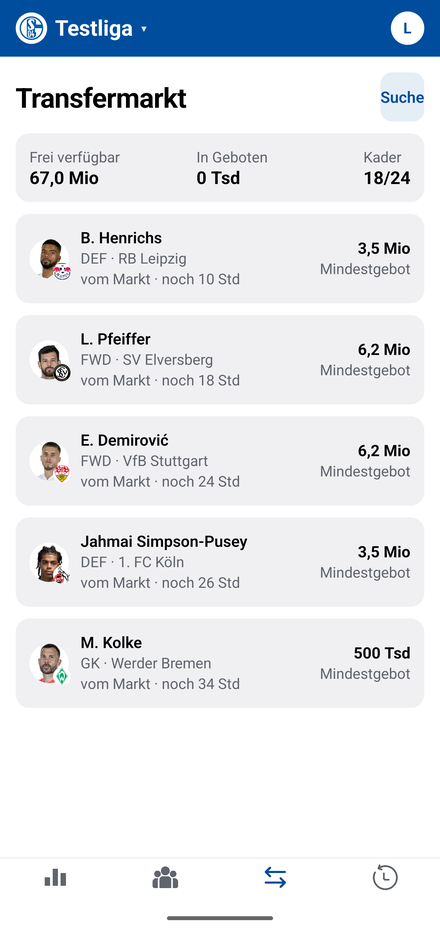
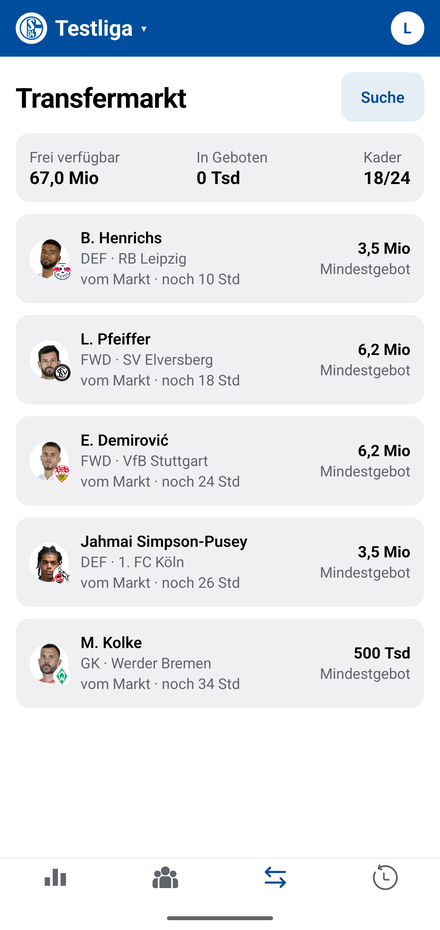
Suche tippt mit, Zurueck ist ein Knopf
Die Suche fragt jetzt waehrend des Tippens, mit 300 ms Pause dazwischen -
sechs Anfragen fuer einen Namen braucht niemand, und einen Knopf zu druecken,
nachdem man den Namen schon getippt hat, auch nicht. Der Suchen-Knopf faellt
damit weg; der Knopf zur Suche ueber dem Markt ist dafuer groesser.

"‹ Zurück" war eine graue Textzeile und sah nicht aus wie etwas, das man
druecken kann. Jetzt ein Knopf mit Rand in Vereinsfarbe, auf allen
Bildschirmen derselbe. Knoepfe haben ausserdem waagerechte Luft bekommen, sonst
sind sie neben einer Ueberschrift nur so breit wie ihr Wort.

Changed region(s): [[0.7682, 0.0624, 0.975, 0.1559]]

diff --git a/app/src/app/suche.tsx b/app/src/app/suche.tsx
@@ -5,13 +5,13 @@ import { api, euroShort } from "@/lib/api";
 import { useSession } from "@/lib/session";
 import {
   Body,
-  Button,
   Card,
   ErrorText,
   Field,
   Screen,
   SpielerFoto,
   Title,
+  Zurueck,
   useAkzent,
   useColors,
   useSchrift,
@@ -46,33 +46,30 @@ export default function SucheScreen() {
     [activeLeagueId, token],
   );
 
-  const suchen = useCallback(
-    async (begriff: string) => {
-      setLaeuft(true);
-      setError("");
-      try {
-        setTreffer((await hole(begriff)).treffer);
-      } catch (e) {
-        setError(e instanceof Error ? e.message : "Suche fehlgeschlagen");
-      } finally {
-        setLaeuft(false);
-      }
-    },
-    [hole],
-  );
-
-  // Beim Öffnen die Scouting-Liste, danach erst auf Tastendruck.
+  /**
+   * Gesucht wird beim Tippen, aber nicht bei jedem Buchstaben: eine kurze
+   * Pause spart dem Server sechs Anfragen fuer einen Namen. Ohne Eingabe holt
+   * derselbe Weg die Scouting-Liste.
+   */
   useEffect(() => {
     let aktuell = true;
-    hole("")
-      .then((r) => {
-        if (aktuell) setTreffer(r.treffer);
-      })
-      .catch(() => {});
+    const warten = setTimeout(() => {
+      setLaeuft(true);
+      hole(q)
+        .then((r) => aktuell && setTreffer(r.treffer))
+        .catch(
+          (e: unknown) =>
+            aktuell &&
+            setError(e instanceof Error ? e.message : "Suche fehlgeschlagen"),
+        )
+        .finally(() => aktuell && setLaeuft(false));
+    }, 300);
+
     return () => {
       aktuell = false;
+      clearTimeout(warten);
     };
-  }, [hole]);
+  }, [q, hole]);
 
   async function merken(t: Treffer) {
     setTreffer((vorher) =>
@@ -86,37 +83,32 @@ export default function SucheScreen() {
       });
     } catch (e) {
       setError(e instanceof Error ? e.message : "Hat nicht geklappt");
-      void suchen(q);
     }
   }
 
   return (
     <Screen>
-      <Pressable onPress={() => router.back()}>
-        <Body dim>‹ Zurück</Body>
-      </Pressable>
+      <Zurueck onPress={() => router.back()} />
 
       <Title>Suche</Title>
 
-      <View style={styles.zeile}>
-        <View style={{ flex: 1 }}>
-          <Field
-            placeholder="Spielername"
-            value={q}
-            onChangeText={setQ}
-            autoCorrect={false}
-            returnKeyType="search"
-            onSubmitEditing={() => suchen(q)}
-          />
-        </View>
-        <Button label="Suchen" onPress={() => suchen(q)} busy={laeuft} />
-      </View>
+      <Field
+        placeholder="Spielername"
+        value={q}
+        onChangeText={setQ}
+        autoCorrect={false}
+        autoFocus
+        returnKeyType="search"
+      />
 
       <ErrorText>{error}</ErrorText>
 
       <Body dim>
-        {q.trim() ? `Treffer für „${q.trim()}“` : "Beobachtete Spieler"}
-        {treffer.length ? ` · ${treffer.length}` : ""}
+        {laeuft
+          ? "sucht …"
+          : `${q.trim() ? `Treffer für „${q.trim()}“` : "Beobachtete Spieler"}${
+              treffer.length ? ` · ${treffer.length}` : ""
+            }`}
       </Body>
 
       {treffer.length === 0 && !laeuft && (

diff --git a/app/src/components/ui.tsx b/app/src/components/ui.tsx
@@ -192,6 +192,29 @@ export function SpielerFoto({
   );
 }
 
+/**
+ * Zurueck als Knopf statt als Textzeile: ein "‹ Zurück" im Fliesstext sieht
+ * nicht aus wie etwas, das man druecken kann, und der Rand in Vereinsfarbe
+ * sagt nebenbei, in wessen App man ist.
+ */
+export function Zurueck({ onPress }: { onPress: () => void }) {
+  const akzent = useAkzent();
+  const schrift = useSchrift();
+  return (
+    <Pressable
+      onPress={onPress}
+      accessibilityRole="button"
+      style={({ pressed }) => [
+        styles.zurueck,
+        { borderColor: akzent.farbe },
+        pressed && { opacity: 0.6 },
+      ]}
+    >
+      <Text style={[styles.zurueckLabel, { color: schrift }]}>‹ Zurück</Text>
+    </Pressable>
+  );
+}
+
 export function Field(props: TextInputProps) {
   const c = useColors();
   return (
@@ -232,11 +255,22 @@ const styles = StyleSheet.create({
   button: {
     borderRadius: 12,
     paddingVertical: 14,
+    // Waagerechte Luft, damit ein Knopf neben einer Ueberschrift nicht nur so
+    // breit ist wie sein Wort.
+    paddingHorizontal: 20,
     alignItems: "center",
     justifyContent: "center",
     minHeight: 50,
   },
   buttonLabel: { fontSize: 16, fontWeight: "600" },
+  zurueck: {
+    alignSelf: "flex-start",
+    borderWidth: 1.5,
+    borderRadius: 10,
+    paddingHorizontal: 14,
+    paddingVertical: 7,
+  },
+  zurueckLabel: { fontSize: 15, fontWeight: "600" },
   field: {
     borderRadius: 12,
     paddingHorizontal: 14,

diff --git a/app/src/app/settings.tsx b/app/src/app/settings.tsx
@@ -3,7 +3,16 @@ import { useRouter } from "expo-router";
 import { useSession } from "@/lib/session";
 import { useThemeMode, type ThemeMode } from "@/lib/theme";
 import { Profilkreis } from "@/components/league-switcher";
-import { Body, Button, Card, Screen, Title, useAkzent, useColors } from "@/components/ui";
+import {
+  Body,
+  Button,
+  Card,
+  Screen,
+  Title,
+  Zurueck,
+  useAkzent,
+  useColors,
+} from "@/components/ui";
 
 const ANZEIGE: { mode: ThemeMode; label: string; hinweis: string }[] = [
   { mode: "system", label: "System", hinweis: "folgt dem Telefon" },
@@ -21,9 +30,7 @@ export default function SettingsScreen() {
 
   return (
     <Screen>
-      <Pressable onPress={() => router.back()}>
-        <Body dim>‹ Zurück</Body>
-      </Pressable>
+      <Zurueck onPress={() => router.back()} />
 
       <View style={styles.kopf}>
         <Profilkreis name={me?.user.name} bild={me?.user.image ?? null} groesse={64} />

diff --git a/app/src/app/manager/[id].tsx b/app/src/app/manager/[id].tsx
@@ -11,6 +11,7 @@ import {
   Screen,
   SpielerFoto,
   Title,
+  Zurueck,
   useColors,
 } from "@/components/ui";
 import type { ManagerDetail, Position } from "@/types";
@@ -70,9 +71,7 @@ export default function ManagerScreen() {
 
   return (
     <Screen>
-      <Pressable onPress={() => router.back()}>
-        <Body dim>‹ Zurück</Body>
-      </Pressable>
+      <Zurueck onPress={() => router.back()} />
 
       <Title>{m.teamName}</Title>
       <Body dim>von {m.managerName}</Body>

diff --git a/app/src/app/player/[id].tsx b/app/src/app/player/[id].tsx
@@ -11,6 +11,7 @@ import {
   ErrorText,
   Screen,
   Title,
+  Zurueck,
   useAkzent,
   useColors,
 } from "@/components/ui";
@@ -87,9 +88,7 @@ export default function PlayerScreen() {
 
   return (
     <Screen>
-      <Pressable onPress={() => router.back()}>
-        <Body dim>‹ Zurück</Body>
-      </Pressable>
+      <Zurueck onPress={() => router.back()} />
 
       <View style={styles.kopf}>
         {p.photoUrl ? (

diff --git a/README.md b/README.md
@@ -43,7 +43,7 @@ aus den echten Spielen des Wochenendes.
 - **Aktivitätenfeed.** Alle Käufe und Verkäufe der Mitspieler und alles, was neu auf
   dem Markt liegt, in einem Zeitstrahl.
 - **Suche und Scouting.** Über dem Transfermarkt liegt eine Suche über alle Spieler
-  der Liga. Bei jedem Treffer steht, ob er noch zu haben ist: frei, auf dem Markt, im
+  der Liga, die schon beim Tippen antwortet. Bei jedem Treffer steht, ob er noch zu haben ist: frei, auf dem Markt, im
   eigenen Kader oder — mit Namen — im Kader eines Mitspielers. Wer interessant
   aussieht, bekommt einen Stern und steht beim nächsten Öffnen der Suche ganz oben.
 - **Vereinswappen an jedem Spieler**, in Kader, Markt, Aufstellungsauswahl und Feed —
